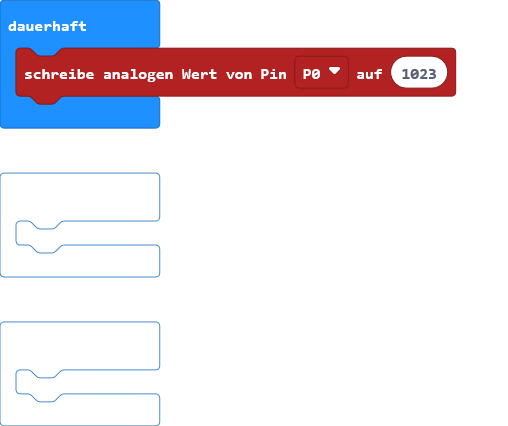
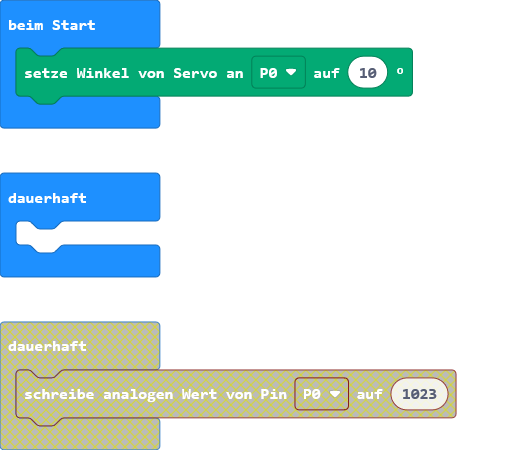
Aktualisiere pxt.json, main.blocks, main.ts

diff --git a/main.ts b/main.ts
@@ -1,3 +1,4 @@
+servos.P0.setAngle(10)
 basic.forever(function () {
-    pins.analogWritePin(AnalogPin.P0, 1023)
+	
 })
